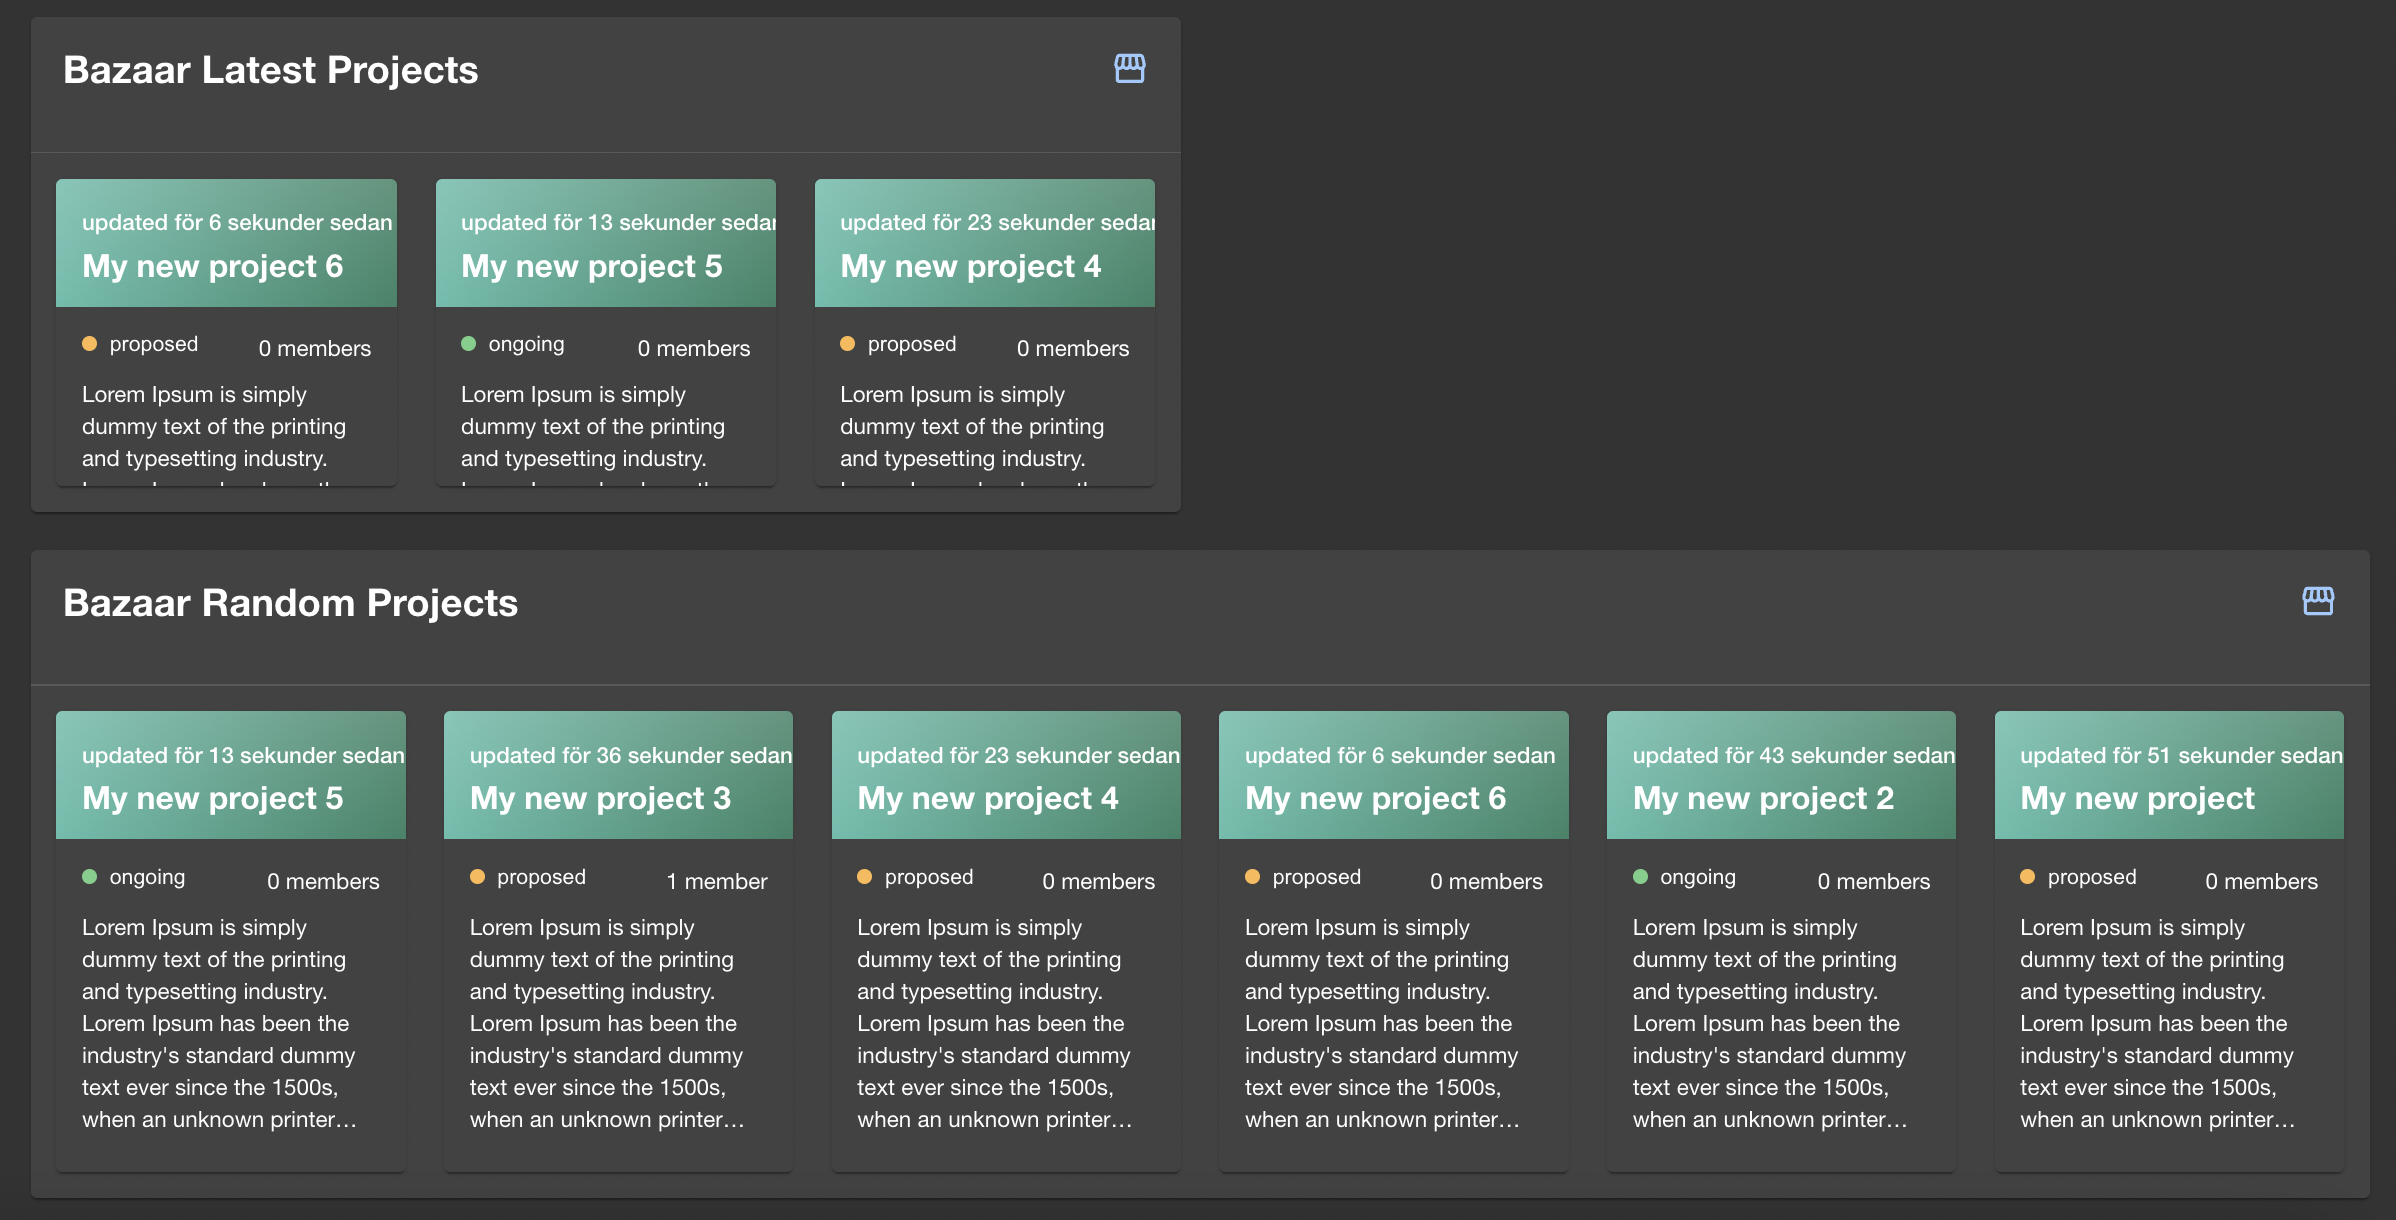
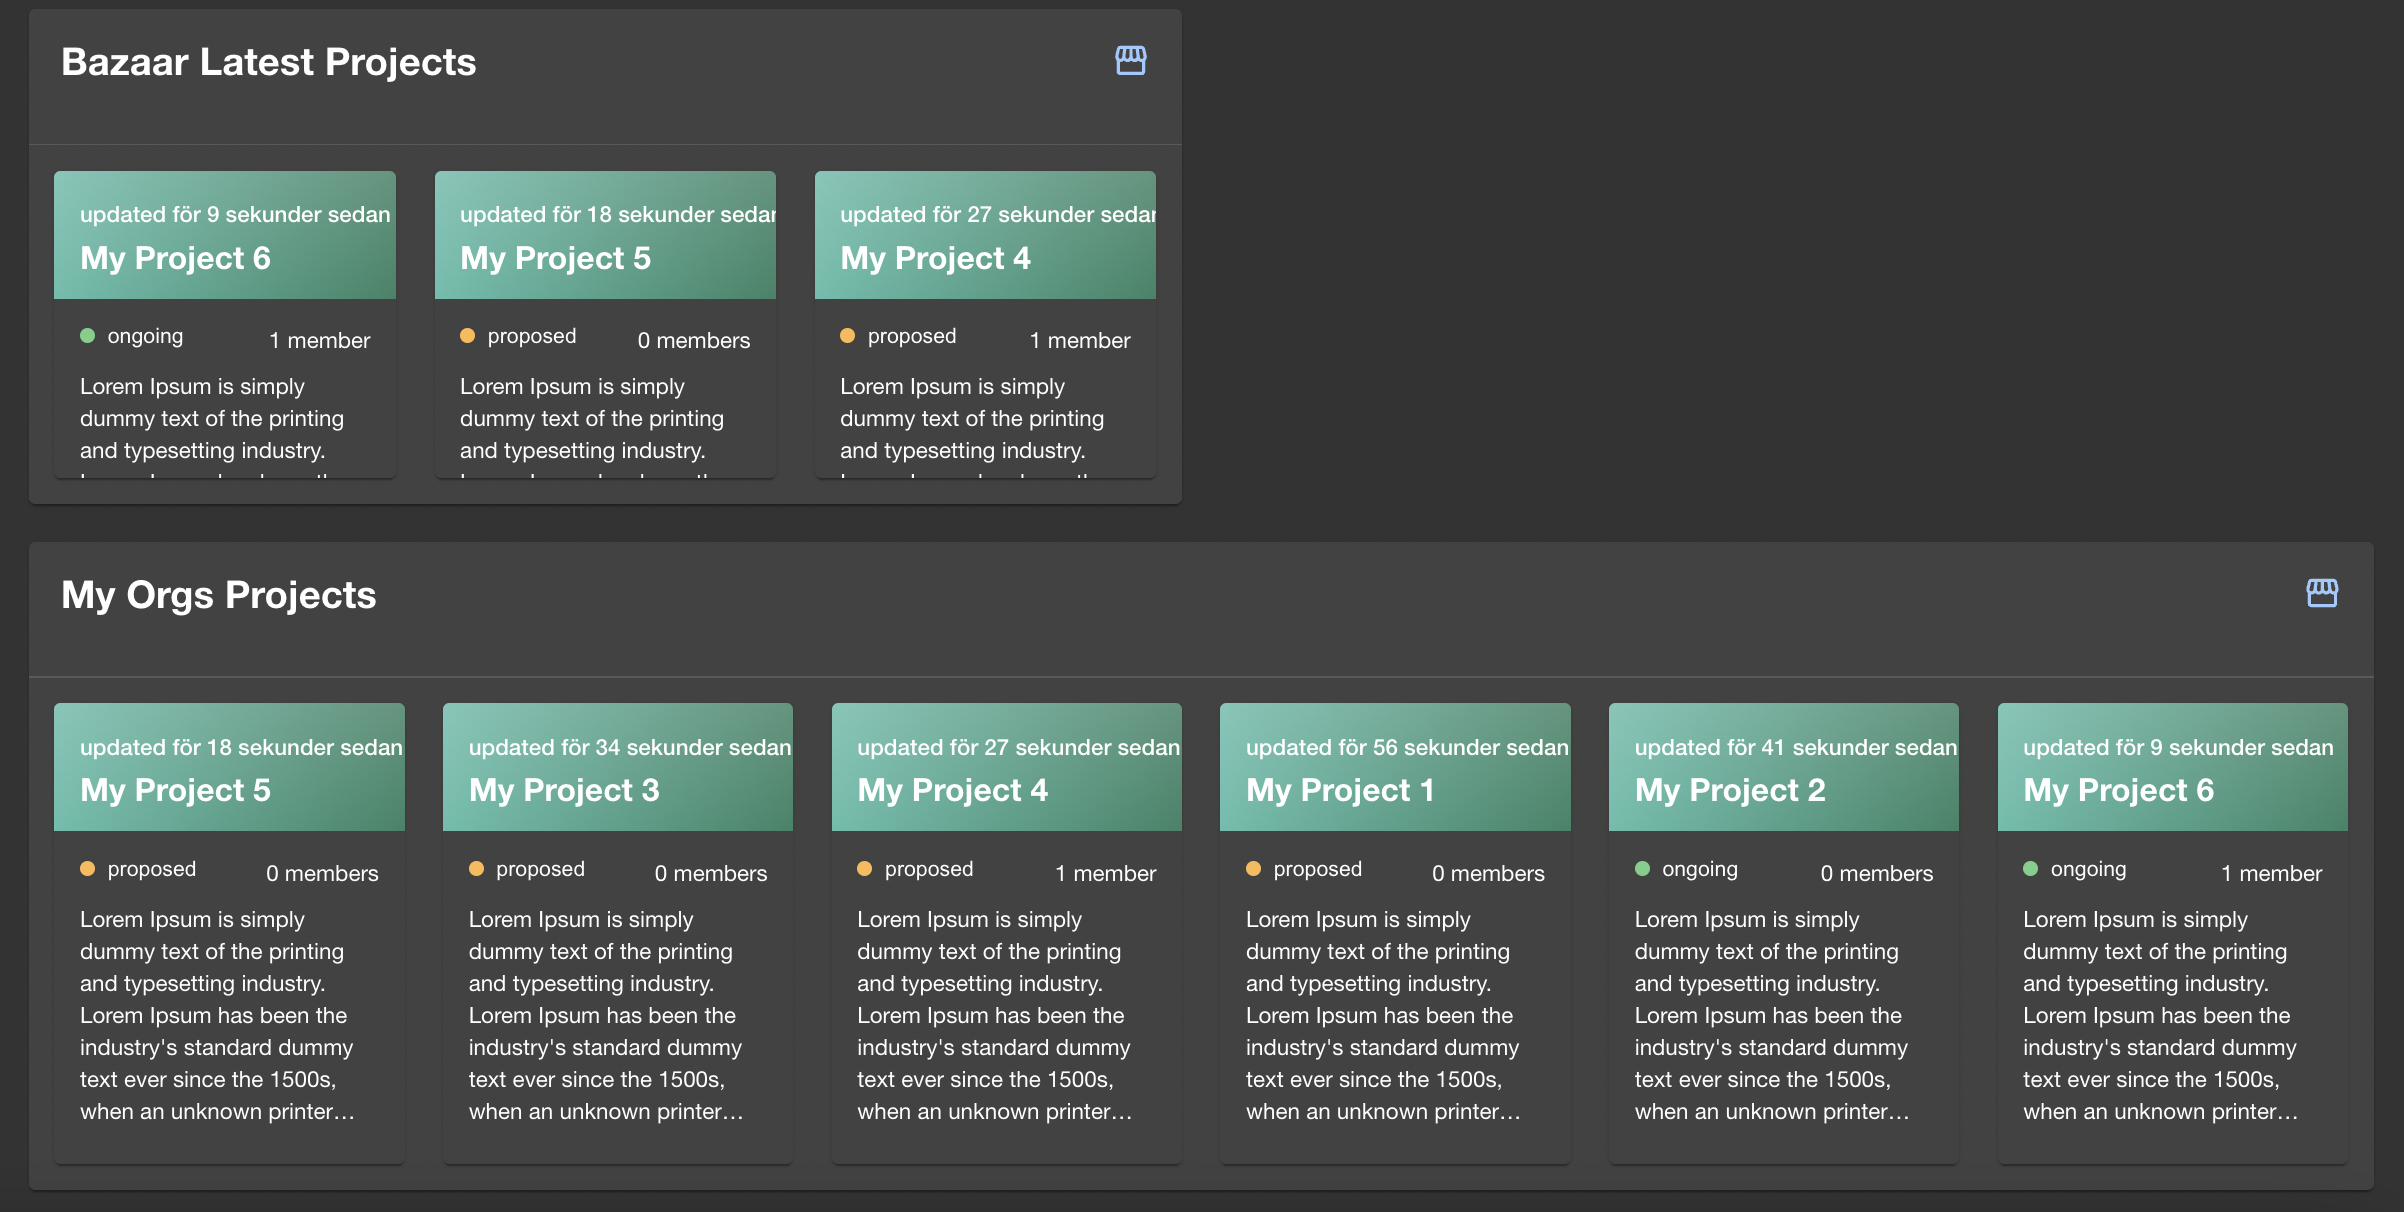
Add title as optional parameter

diff --git a/plugins/bazaar/src/components/BazaarOverviewCard/BazaarOverviewCard.tsx b/plugins/bazaar/src/components/BazaarOverviewCard/BazaarOverviewCard.tsx
@@ -31,6 +31,7 @@ import StorefrontIcon from '@material-ui/icons/Storefront';
 
 /** @public */
 export type BazaarOverviewCardProps = {
+  title?: string;
   order: 'latest' | 'random';
   fullWidth?: boolean;
   fullHeight?: boolean;
@@ -51,10 +52,13 @@ const getUnlinkedCatalogEntities = (
 
 /** @public */
 export const BazaarOverviewCard = (props: BazaarOverviewCardProps) => {
-  const { order, fullWidth = false, fullHeight = false } = props;
+  const { title, order, fullWidth = false, fullHeight = false } = props;
   const bazaarApi = useApi(bazaarApiRef);
   const catalogApi = useApi(catalogApiRef);
   const root = useRouteRef(bazaarPlugin.routes.root);
+
+  const defaultTitle =
+    order === 'latest' ? 'Bazaar Latest Projects' : 'Bazaar Random Projects';
 
   const bazaarLink = {
     title: 'Go to Bazaar',
@@ -127,9 +131,7 @@ export const BazaarOverviewCard = (props: BazaarOverviewCardProps) => {
 
   return (
     <InfoCard
-      title={
-        order === 'latest' ? 'Bazaar Latest Projects' : 'Bazaar Random Projects'
-      }
+      title={title ?? defaultTitle}
       action={
         <IconButton>
           <Link to={bazaarLink.link} title={bazaarLink.title}>

diff --git a/plugins/bazaar/README.md b/plugins/bazaar/README.md
@@ -80,13 +80,15 @@ export const homePage = (
 +       </Grid>
 
 +       <Grid item xs={12} >
-+         <BazaarOverviewCard order='random' fullWidth fullHeight />
++         <BazaarOverviewCard title='My Orgs Projects' order='random' fullWidth fullHeight />
 +       </Grid>
 
         {/* ...other homepage items */}
 ```
 
-The properties `fullHeight` and `fullWidth` are optional and can be used to adjust the cards styling.
+The property `title` is optional and can be used to customize the title in the card header. If no title is submitted the default titles `Bazaar Random Projects` or `Bazaar Latest Projects` are displayed.
+
+The properties `fullHeight` and `fullWidth` are also optional and can be used to adjust the cards styling.
 
 ## How does the Bazaar work?
 

diff --git a/plugins/bazaar/api-report.md b/plugins/bazaar/api-report.md
@@ -15,6 +15,7 @@ export const BazaarOverviewCard: (
 
 // @public (undocumented)
 export type BazaarOverviewCardProps = {
+  title?: string;
   order: 'latest' | 'random';
   fullWidth?: boolean;
   fullHeight?: boolean;

diff --git a/.changeset/hip-wasps-yell.md b/.changeset/hip-wasps-yell.md
@@ -1,0 +1,5 @@
+---
+'@backstage/plugin-bazaar': patch
+---
+
+Add `title` as optional parameter to `BazaarOverviewCard`
